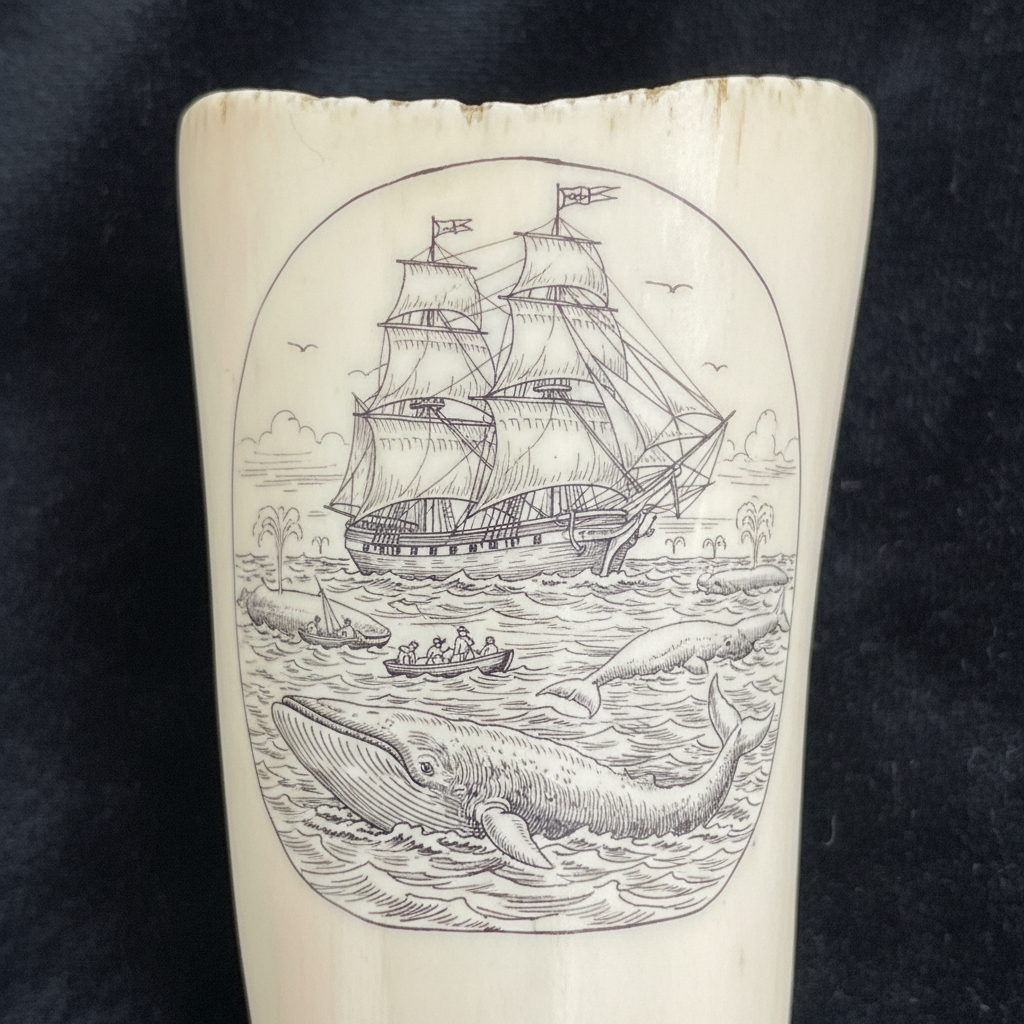
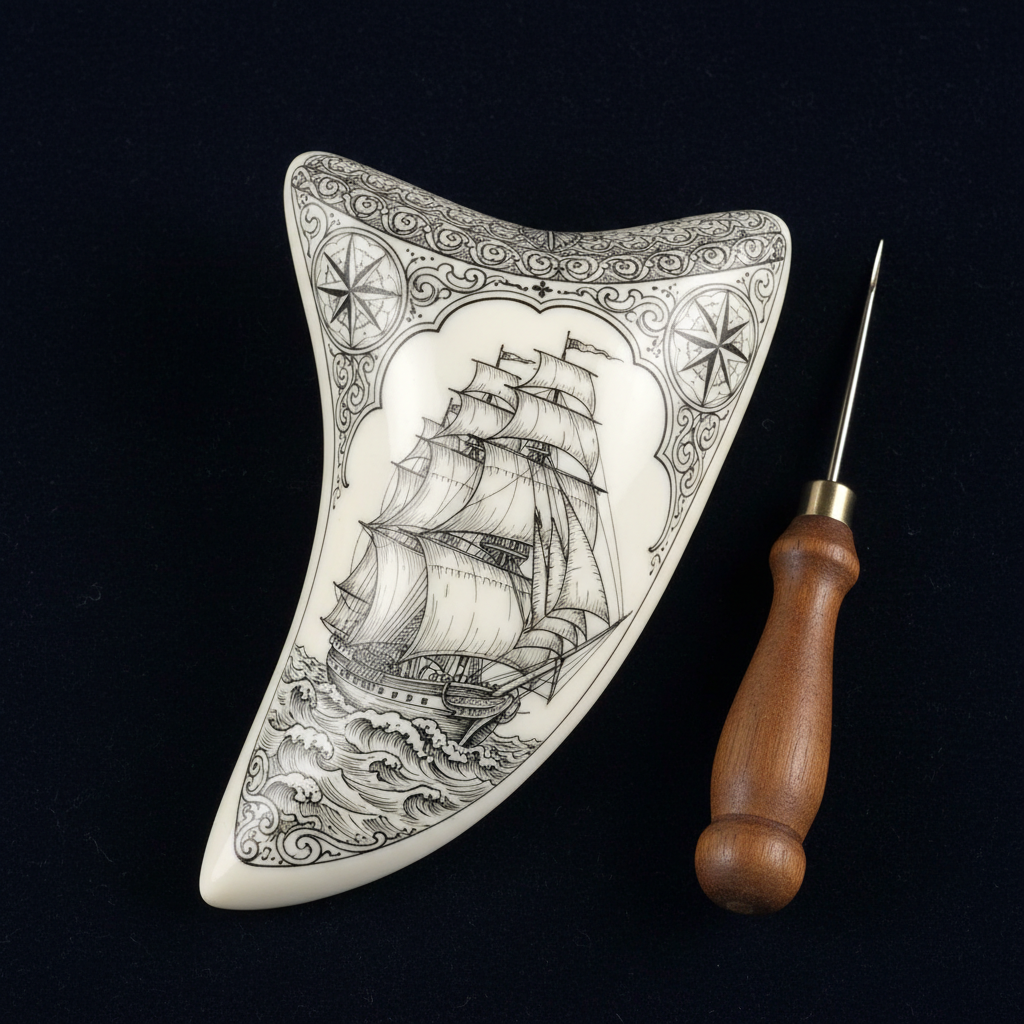
Add 3 art styles: Scrimshaw, Gilding, Terrazzo - all with AI concept images

diff --git a/11-millennium-nostalgia/terrazzo.md b/11-millennium-nostalgia/terrazzo.md
@@ -1,64 +1,71 @@
-# Terrazzo 水磨石 | Seminato
+# Terrazzo 水磨石
 
-> **"碎片的民主——威尼斯工匠用大理石废料创造了最平等的奢华。"**
+> "Terrazzo is the art of making beauty from fragments — a floor that tells a story of transformation." — Unknown
 
 ## 概述
 
-水磨石（Terrazzo / Seminato）是一种将碎石、大理石、花岗岩、玻璃或其他骨料嵌入水泥或树脂基底中，经过打磨抛光后形成光滑表面的装饰材料和艺术形式。起源于15世纪的威尼斯，最初是工匠用大理石加工的废料碎片铺设自家露台（terrazza）的经济做法。这种"废物利用"的美学在20世纪中期的现代主义建筑中大放异彩，近年来又在当代设计中强势回归，成为极简主义和孟菲斯风格的宠儿。
+水磨石（Terrazzo）是将碎石、大理石、玻璃或其他骨料嵌入水泥或树脂基底中，经过研磨和抛光后形成光滑装饰表面的建筑装饰艺术。从15世纪威尼斯工人用大理石废料创造的"穷人的大理石"，到20世纪现代主义建筑的标志性地面，再到当代设计中的terrazzo复兴热潮，水磨石以其独特的碎片美学和无限的色彩组合可能性成为最持久的装饰艺术形式之一。
 
-## 历史演变
-
-| 时期 | 特征 |
-|------|------|
-| 15世纪 威尼斯 | 大理石废料+石灰，手工打磨 |
-| 18世纪 | 传入欧洲各地 |
-| 1920-30s | 水泥基底，机械打磨 |
-| 1950-70s | 现代主义建筑大量使用 |
-| 1980s | 一度过时 |
-| 2010s–至今 | 强势回归，当代设计宠儿 |
+水磨石的哲学在于：废料可以变成珍宝——碎片通过重新组合和打磨，获得了超越原材料的美。
 
 ## 核心特征
 
-- **碎片嵌入**：不规则碎片嵌入基底
-- **打磨抛光**：表面光滑如镜
-- **随机图案**：碎片的随机分布
-- **耐久性**：极其耐磨耐用
-- **可定制**：碎片颜色和大小可选
-- **无缝连续**：大面积无缝铺设
-
-## 当代应用
-
-| 领域 | 特征 |
+| 特征 | 描述 |
 |------|------|
-| 室内设计 | 地面、台面、墙面 |
-| 平面设计 | Terrazzo图案纹理 |
-| 产品设计 | 手机壳、文具、家居 |
-| 时装 | Terrazzo印花面料 |
-| 包装设计 | 高端品牌包装 |
-| 数字设计 | UI背景和纹理 |
+| 碎片 | 使用碎石和骨料 |
+| 嵌入 | 碎片嵌入基底材料 |
+| 研磨 | 研磨至光滑平面 |
+| 抛光 | 抛光产生光泽 |
+| 耐久 | 极其耐久——可用数百年 |
+| 建筑性 | 主要用于建筑装饰 |
 
 ## 视觉特征
 
-- 不规则碎片的随机美感
-- 柔和的色彩搭配
-- 光滑抛光的表面质感
-- 大小不一的碎片层次
-- 极简而丰富的视觉效果
-- 当代感与复古感并存
+- **碎片**：随机分布的碎片图案
+- **光滑**：研磨后的光滑表面
+- **色彩**：多种颜色的碎片组合
+- **随机**：自然随机的分布美感
+- **光泽**：抛光后的柔和光泽
+- **规模**：从地面到墙面的大尺度
+
+## 代表作品
+
+| 作品 | 艺术家 | 年代 | 意义 |
+|------|--------|------|------|
+| *Venetian terrazzo* | 威尼斯工匠 | 15世纪+ | 水磨石的起源 |
+| *Art Deco terrazzo* | 匿名 | 1920s-30s | 装饰艺术风格 |
+| *Mid-century terrazzo* | 匿名 | 1950s-60s | 现代主义建筑 |
+| *Dallas-Fort Worth Airport* | — | 1974 | 大型水磨石地面 |
+| *Contemporary terrazzo* | Various | 2010s+ | 当代水磨石复兴 |
+
+## 历史时间线
+
+| 时期 | 事件 |
+|------|------|
+| 古代 | 早期的碎石地面 |
+| 15世纪 | 威尼斯——现代水磨石的诞生 |
+| 18世纪 | 水磨石传播到欧洲各地 |
+| 1920s-30s | Art Deco时期的水磨石 |
+| 1950s-60s | 现代主义建筑的广泛使用 |
+| 1980s-90s | 水磨石的暂时衰落 |
+| 2010s+ | 当代设计中的水磨石复兴 |
+
+## 中国语境
+
+水磨石在中国有广泛的应用历史——从1950年代开始，水磨石地面在中国的公共建筑、学校和医院中大量使用。虽然一度被视为"过时"的材料，但近年来水磨石在中国的室内设计和建筑中经历了强烈的复兴。当代中国设计师将水磨石与现代美学结合，创造出新的视觉语言。中国传统的"磨石子"工艺与水磨石有相似之处。
+
+## AI生成概念图
+
+![Terrazzo 水磨石概念图](../assets/artworks/terrazzo/terrazzo-concept-01.png)
 
 ## 与其他风格的关系
 
-| 风格 | 关系 |
-|------|------|
-| 孟菲斯 Memphis | 共享碎片和色彩美学 |
-| 极简主义 | Terrazzo的当代极简应用 |
-| 马赛克 Mosaic | 共享碎片拼贴传统 |
-| Mid-Century Modern | 1950s大量使用Terrazzo |
-| 当代北欧设计 | Terrazzo的斯堪的纳维亚诠释 |
-
-## 概念图
-
-![Terrazzo 水磨石概念图](../assets/artworks/terrazzo/terrazzo-concept-01.png)
+- **Mosaic** → 马赛克与水磨石有碎片逻辑相似
+- **Architecture** → 建筑是水磨石的主要载体
+- **Concrete Art** → 混凝土艺术与水磨石有材料相似
+- **Pattern Design** → 水磨石图案影响当代设计
+- **Interior Design** → 室内设计中的水磨石应用
+- **Sustainable Art** → 废料利用的可持续精神
 
 ---
 

diff --git a/11-millennium-nostalgia/scrimshaw.md b/11-millennium-nostalgia/scrimshaw.md
@@ -1,53 +1,70 @@
-# Scrimshaw 鲸骨雕刻 | Scrimshaw
+# Scrimshaw 骨雕刻画
 
-> **"大海上的寂寞艺术——水手用针尖在鲸牙上刻下思乡的画。"**
+> "Scrimshaw is the art of the sea — carved by sailors who had nothing but time, bone, and a needle." — Unknown
 
 ## 概述
 
-鲸骨雕刻（Scrimshaw）是18-19世纪捕鲸时代水手在鲸牙、鲸骨或海象牙上用针或刀刻画图案，再用墨水或烟灰填色的民间艺术。这种艺术诞生于漫长的捕鲸航行中（通常持续3-5年），水手们在无聊的等待时间里用手边的材料创作。Scrimshaw是美国最早的本土民间艺术形式之一，主要流行于新英格兰的捕鲸港口（南塔克特、新贝德福德）。题材包括船只、鲸鱼、家人肖像、爱国图案和异域风景。
+骨雕刻画（Scrimshaw）是在鲸骨、象牙或骨头表面用针或刀刻画图案，再用墨水或颜料填充线条的雕刻艺术。这种艺术形式起源于18-19世纪的捕鲸船上——水手们在漫长的航行中，用简陋的工具在鲸牙和鲸骨上刻画船只、海洋生物、家乡风景和心爱的人。Scrimshaw是海洋文化的独特艺术遗产。
+
+骨雕刻画的诗意在于它的孤独——每一条线都是远离家乡的水手在无尽大海上刻下的思念。
 
 ## 核心特征
 
-- **鲸牙/骨材**：在鲸牙或骨头上创作
-- **针刻**：用针或刀尖刻画线条
-- **填色**：用墨水或烟灰填入刻痕
-- **水手创作**：非专业艺术家的民间艺术
-- **航海题材**：船只、鲸鱼、港口
-- **思乡情感**：家人、爱人、故乡
-
-## 常见题材
-
-| 题材 | 特征 |
+| 特征 | 描述 |
 |------|------|
-| 捕鲸船 | 帆船的精细描绘 |
-| 鲸鱼 | 抹香鲸、座头鲸 |
-| 女性肖像 | 妻子或爱人 |
-| 爱国图案 | 鹰、国旗、自由女神 |
-| 异域风景 | 太平洋岛屿 |
-| 花卉装饰 | 维多利亚风格花卉 |
+| 骨质 | 在骨头或象牙上创作 |
+| 刻画 | 用针或刀刻出线条 |
+| 填色 | 用墨水填充刻痕 |
+| 精细 | 极其精细的线条 |
+| 海洋 | 与海洋文化紧密相关 |
+| 叙事 | 常讲述航海故事 |
 
 ## 视觉特征
 
-- 象牙白底上的黑色线条
-- 精细的针刻线条
-- 航海主题的叙事性
-- 民间艺术的质朴感
-- 弧形牙面的独特构图
-- 黑白对比的版画效果
+- **线条**：极细的刻画线条
+- **对比**：白色骨面与黑色墨线的对比
+- **精细**：微型的精细图案
+- **曲面**：在曲面上的创作
+- **叙事**：图像的叙事性
+- **质感**：骨质材料的光滑质感
+
+## 代表作品
+
+| 作品 | 艺术家 | 年代 | 意义 |
+|------|--------|------|------|
+| *Whaling scenes* | 匿名水手 | 1800s | 捕鲸场景 |
+| *Ship portraits* | 匿名水手 | 1800s | 船只肖像 |
+| *Nantucket scrimshaw* | 匿名 | 1820s-60s | 南塔克特传统 |
+| *Frederick Myrick pieces* | Frederick Myrick | 1828-29 | 已知最早署名作品 |
+| *Contemporary scrimshaw* | Various | 2000s+ | 当代骨雕刻画 |
+
+## 历史时间线
+
+| 时期 | 事件 |
+|------|------|
+| 古代 | 因纽特人的骨雕传统 |
+| 18世纪末 | 美国捕鲸船上的scrimshaw兴起 |
+| 1820s-60s | 黄金时代——南塔克特和新贝德福德 |
+| 1860s后 | 捕鲸业衰落，scrimshaw减少 |
+| 1970s | 象牙贸易禁令的影响 |
+| 当代 | 使用替代材料的当代scrimshaw |
+
+## 中国语境
+
+骨雕刻画与中国传统的牙雕、骨雕有相似之处——中国的象牙雕刻和骨雕有数千年的历史。但中国的传统更偏向立体雕刻，而scrimshaw更偏向平面刻画。随着象牙贸易的全面禁止，中国的牙雕艺人也转向使用猛犸象牙和骨质替代材料，与当代scrimshaw面临相似的材料转型。
+
+## AI生成概念图
+
+![Scrimshaw 骨雕刻画概念图](../assets/artworks/scrimshaw/scrimshaw-concept-01.png)
 
 ## 与其他风格的关系
 
-| 风格 | 关系 |
-|------|------|
-| 版画 Engraving | 共享刻线技法 |
-| 民间艺术 Folk Art | 非专业创作传统 |
-| 纹身 Tattoo | 共享水手文化 |
-| 象牙雕刻 | 共享牙骨材料 |
-| 当代刮画 | Scrimshaw的现代转化 |
-
-## 概念图
-
-![Scrimshaw 鲸骨雕刻概念图](../assets/artworks/scrimshaw/scrimshaw-concept-01.png)
+- **Engraving** → 雕版与骨雕刻画有技法相似
+- **Etching** → 蚀刻的线条美学
+- **Folk Art** → 民间艺术的海洋分支
+- **Ivory Carving** → 象牙雕刻的平面形式
+- **Miniature Art** → 微型艺术的精细
+- **Maritime Art** → 海洋艺术的独特形式
 
 ---
 

diff --git a/11-millennium-nostalgia/gilding.md b/11-millennium-nostalgia/gilding.md
@@ -1,0 +1,73 @@
+# Gilding 鎏金术
+
+> "Gold is the light of the sun made solid — gilding brings that light to art." — Unknown
+
+## 概述
+
+鎏金术（Gilding）是将极薄的金箔或金粉应用到物体表面的装饰技法。从古埃及法老的面具到拜占庭的圣像画，从文艺复兴的祭坛画到日本的金阁寺，从中世纪手抄本的金色字母到当代艺术家的金箔实验，鎏金术以其永恒的光泽和神圣的象征意义贯穿了人类文明的始终。
+
+鎏金的哲学在于：金是不朽的——它不氧化、不褪色、不腐蚀，因此成为永恒、神圣和至高价值的完美象征。
+
+## 核心特征
+
+| 特征 | 描述 |
+|------|------|
+| 金箔 | 使用极薄的金箔（约0.1微米） |
+| 光泽 | 永恒的金色光泽 |
+| 神圣 | 象征神圣和永恒 |
+| 精细 | 极其精细的操作 |
+| 持久 | 金不氧化不褪色 |
+| 装饰 | 强烈的装饰效果 |
+
+## 视觉特征
+
+- **光泽**：金属的温暖光泽
+- **反射**：随角度变化的反射
+- **对比**：金色与其他颜色的对比
+- **质感**：金箔的微妙褶皱质感
+- **神圣**：神圣和庄严的氛围
+- **温暖**：温暖的金色调
+
+## 代表作品
+
+| 作品 | 艺术家 | 年代 | 意义 |
+|------|--------|------|------|
+| *Tutankhamun's mask* | 匿名 | 公元前1323年 | 古埃及鎏金 |
+| *Byzantine icons* | 匿名 | 6-15世纪 | 金底圣像画 |
+| *Book of Kells* | 匿名 | 约800年 | 手抄本鎏金 |
+| *The Kiss* | Gustav Klimt | 1907-08 | 现代金箔绘画 |
+| *Kinkaku-ji* | — | 1397 | 日本金阁寺 |
+| *Contemporary gold leaf* | Various | 2000s+ | 当代金箔艺术 |
+
+## 历史时间线
+
+| 时期 | 事件 |
+|------|------|
+| 古埃及 | 最早的鎏金实践 |
+| 古罗马 | 建筑和雕塑的鎏金 |
+| 中世纪 | 手抄本和圣像的金底 |
+| 文艺复兴 | 祭坛画的金色背景 |
+| 巴洛克 | 教堂和宫殿的大量鎏金 |
+| 1900s | Klimt——现代金箔绘画 |
+| 当代 | 金箔在当代艺术中的复兴 |
+
+## 中国语境
+
+鎏金在中国有极其悠久的历史——中国的鎏金铜器可追溯到战国时期。中国传统的贴金、描金、洒金等技法广泛应用于佛像、建筑、漆器和书画。故宫的金碧辉煌就是鎏金术的集大成。当代中国艺术家也在探索金箔与当代艺术的结合。
+
+## AI生成概念图
+
+![Gilding 鎏金术概念图](../assets/artworks/gilding/gilding-concept-01.png)
+
+## 与其他风格的关系
+
+- **Icon Painting** → 圣像画大量使用金底
+- **Illuminated Manuscript** → 手抄本的金色装饰
+- **Byzantine Art** → 拜占庭的金色马赛克
+- **Art Nouveau** → 新艺术运动的金色装饰（Klimt）
+- **Lacquerware** → 漆器的描金和洒金
+- **Religious Art** → 宗教艺术的神圣象征
+
+---
+
+*浮光艺志 | Chronicle of Artistry*
